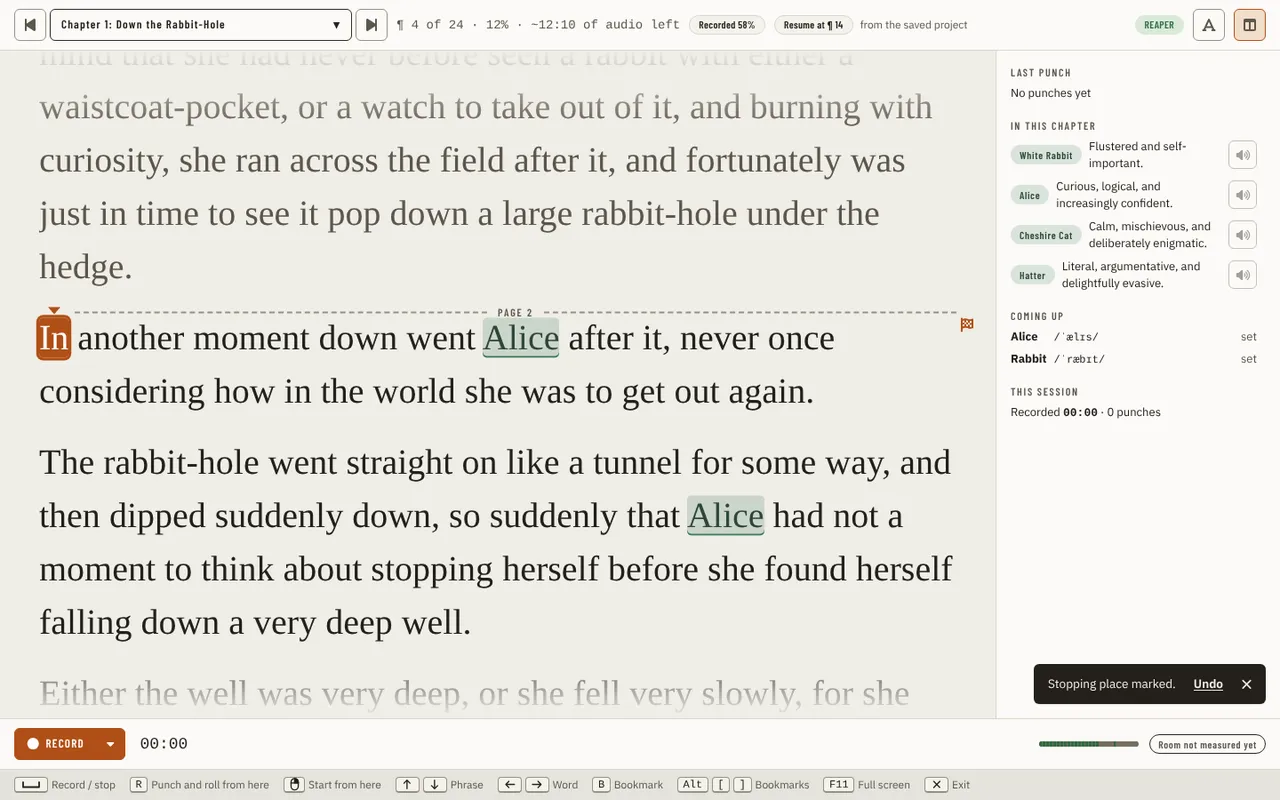
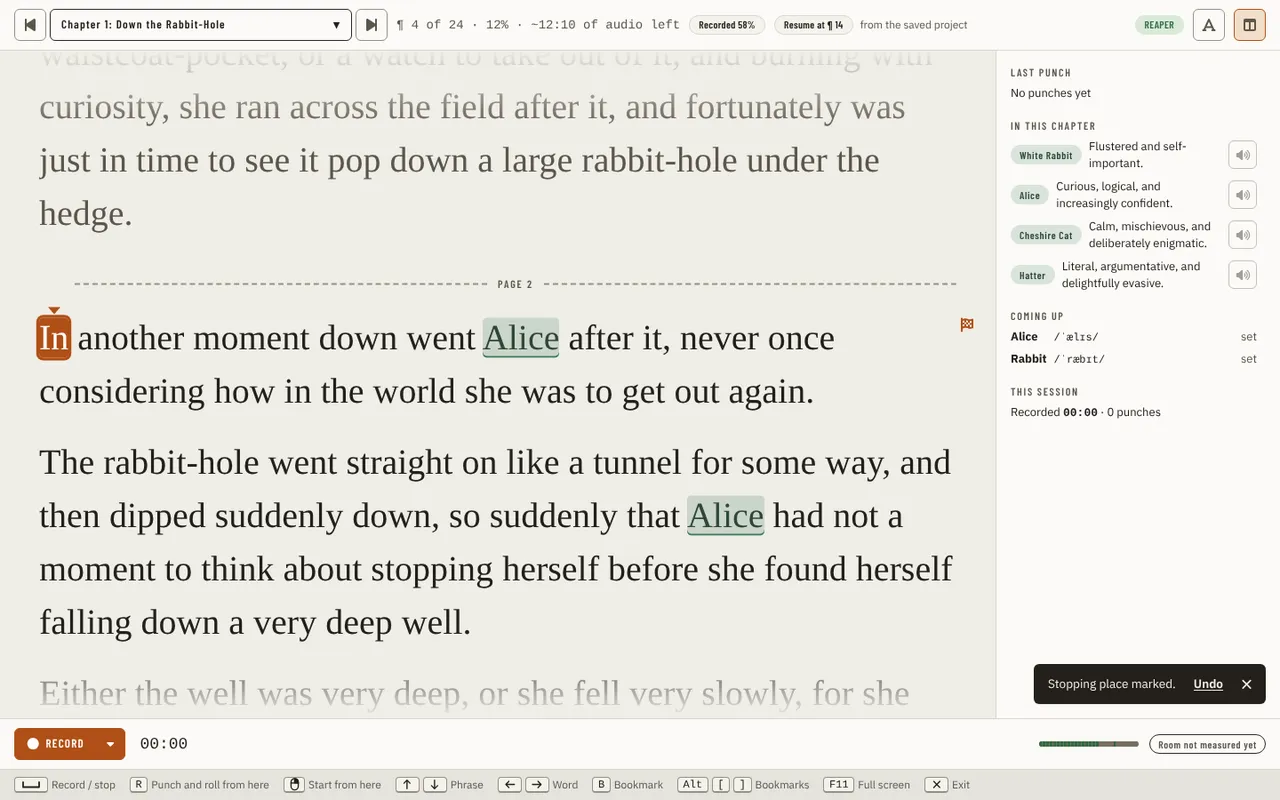
fix(ui): give Booth page breaks more room (#3256)

diff --git a/src/studio/ui/src/components/booth/pages/PageBreaks.tsx b/src/studio/ui/src/components/booth/pages/PageBreaks.tsx
@@ -5,7 +5,7 @@ import type { PageBreak } from './pageBreakLayout';
 
 /**
  * The chapter's page breaks over the Booth's text: a `BoundaryMarker` across the column above the line that holds each break's first word.
- * It is drawn over the text and takes no room, so the text never moves for it; each line carries its "Page N" in the chapter-end marker's format (`BoundaryMarker`) and the right-click spot for "Read to here". Mount it inside the text column, which is `relative` and moves with the text; it measures the break words and
+ * It is drawn over the text and takes no room; the room above it is the page's first paragraph's own margin (`BoothText` `pageStarts`); each line carries its "Page N" in the chapter-end marker's format (`BoundaryMarker`) and the right-click spot for "Read to here". Mount it inside the text column, which is `relative` and moves with the text; it measures the break words and
  * measures again when the column is resized (text size, window).
  */
 export function PageBreaks({ breaks }: { breaks: readonly PageBreak[] }) {
@@ -42,7 +42,7 @@ export function PageBreaks({ breaks }: { breaks: readonly PageBreak[] }) {
         const top = tops[pageBreak.page];
         if (top === undefined) return null;
         return (
-          // The marker sits in the leading above the break word's line, so it crosses no letters; it takes no room. Its left padding keeps the rule clear of a bookmark's triangle above the break word.
+          // The marker sits 0.8 of the text size above the break word's line (`--tsize`, set on the column), in the page's first paragraph's margin, so it crosses no letters and clears the reading cue; it takes no room. Its left padding keeps the rule clear of a bookmark's triangle above the break word.
           <BoundaryMarker
             key={pageBreak.page}
             variant="page"
@@ -51,7 +51,7 @@ export function PageBreaks({ breaks }: { breaks: readonly PageBreak[] }) {
             data-paragraph-id={pageBreak.paragraphId}
             data-offset={pageBreak.offset}
             className="pointer-events-auto absolute inset-x-0 -translate-y-full pl-10 leading-none"
-            style={{ top }}
+            style={{ top, marginTop: 'calc(var(--tsize) * -0.8)' }}
           >
             Page {pageBreak.page.toLocaleString()}
           </BoundaryMarker>

diff --git a/src/studio/ui/src/components/booth/reading/BoothText.tsx b/src/studio/ui/src/components/booth/reading/BoothText.tsx
@@ -60,6 +60,8 @@ type Props = {
   /** The column's CSS max-width (`useTextChoices`' column, the Reader text column width). Left out: Medium, the Reader text default. */
   width?: string;
   viewRef?: Ref<BrowseView>;
+  /** Ids of the paragraphs that open a page after the first: each gets 2em above it and its marker sits 0.8 of the text size clear of the first line, so its page-break marker (`PageBreaks`) has room. */
+  pageStarts?: ReadonlySet<string>;
   /** Drawn inside the text column, which is `relative` and moves with the text: the bookmark ribbons (`BookmarkRibbons`). */
   margin?: ReactNode;
 };
@@ -214,6 +216,7 @@ export function BoothText({
   font,
   width = readerColumn(DEFAULT_TEXT_PREFS.width),
   viewRef,
+  pageStarts,
   margin,
 }: Props) {
   const paragraphs = useMemo(() => readingParagraphs(given), [given]);
@@ -304,7 +307,7 @@ export function BoothText({
               style={{ '--est': `${estimatedEm(paragraph.text)}em` } as CSSProperties}
               data-pickup={pickup ? (pickup.done ? 'done' : 'open') : undefined}
               data-heading={paragraph.heading}
-              className={`${paragraph.heading && !paragraphs[paragraphIndex + 1]?.heading ? 'mb-[1em]' : 'mb-[0.5em]'} text-start ${HEADING_LOOK[paragraph.heading ?? 'none']} [contain-intrinsic-size:auto_var(--est)] ${paragraphIndex === readingParagraph || paragraphIndex === ghostParagraph ? '[content-visibility:visible]' : '[content-visibility:auto]'} ${pickup ? `border-l-4 pl-3 ${pickup.done ? 'border-[var(--ok)]' : 'border-[var(--accent)]'}` : ''}`}
+              className={`${pageStarts?.has(paragraph.id) ? 'mt-[2em]' : ''} ${paragraph.heading && !paragraphs[paragraphIndex + 1]?.heading ? 'mb-[1em]' : 'mb-[0.5em]'} text-start ${HEADING_LOOK[paragraph.heading ?? 'none']} [contain-intrinsic-size:auto_var(--est)] ${paragraphIndex === readingParagraph || paragraphIndex === ghostParagraph ? '[content-visibility:visible]' : '[content-visibility:auto]'} ${pickup ? `border-l-4 pl-3 ${pickup.done ? 'border-[var(--ok)]' : 'border-[var(--accent)]'}` : ''}`}
             >
               {unitsOf[paragraphIndex].map((unit) => {
                 index++;

diff --git a/src/studio/ui/src/components/booth/page/BoothNextPage.tsx b/src/studio/ui/src/components/booth/page/BoothNextPage.tsx
@@ -401,6 +401,7 @@ function BoothSession({
   // A page break after the paragraph that brings a page to Booth.words_per_page words; the credits chapters have no paragraphs and so none.
   const wordsPerPage = useWordsPerPage();
   const breaks = useMemo(() => (chapter ? pageBreaks(paragraphs, units, wordsPerPage) : []), [chapter, paragraphs, units, wordsPerPage]);
+  const pageStarts = useMemo(() => new Set(breaks.map((pageBreak) => pageBreak.paragraphId)), [breaks]);
 
   // Ctrl+F opens the jump menu; its search finds the text in this chapter and brings the match into view (during a take, without moving the reading).
   const find = useBoothFind({ chapterId: recordId, paragraphs, recording: control.recording, seek, view: page.view });
@@ -767,6 +768,7 @@ function BoothSession({
                   font={page.text.fontFamily}
                   width={page.text.column}
                   viewRef={page.view}
+                  pageStarts={pageStarts}
                   margin={
                     chapter ? (
                       <>

diff --git a/src/studio/ui/src/components/booth/reading/BoothText.test.tsx b/src/studio/ui/src/components/booth/reading/BoothText.test.tsx
@@ -448,3 +448,13 @@ describe('a cold read draws a ghost and the view follows it', () => {
     expect(text.style.transition).toBe('');
   });
 });
+
+describe('room for a page break', () => {
+  it('puts 2em above the paragraph that opens a page, and above no other', () => {
+    setup({ pageStarts: new Set(['p2']) });
+    const gap = (id: string) => document.querySelector<HTMLElement>(`[data-paragraph="${id}"]`)!.className.includes('mt-[2em]');
+    expect(gap('p2')).toBe(true);
+    expect(gap('p1')).toBe(false);
+    expect(gap('p3')).toBe(false);
+  });
+});

diff --git a/src/studio/ui/src/components/booth/pages/PageBreaks.test.tsx b/src/studio/ui/src/components/booth/pages/PageBreaks.test.tsx
@@ -19,6 +19,8 @@ describe('PageBreaks', () => {
     expect(marker.getAttribute('data-boundary')).toBe('page');
     expect(marker.textContent).toBe('Page 2');
     expect(marker.dataset).toMatchObject({ pageBreak: '2', paragraphId: 'p1', offset: '4' });
+    // The lift scales with the Booth text size, so the room below the rule grows with the room above the page.
+    expect(marker.style.marginTop).toBe('calc(var(--tsize) * -0.8)');
     expect(container.querySelector('[data-page-breaks]')?.className).toContain('h-0');
   });
 

diff --git a/docs/guides/using-the-app/booth.md b/docs/guides/using-the-app/booth.md
@@ -491,7 +491,7 @@ into another chapter when needed; during a take they move only within the chapte
 
 ## Pages and your stopping place
 
-The Booth marks where a page breaks: a dashed line across the text above the page's first line with **Page 2**, **Page 3** and so on in its middle, drawn the same way as the "End of chapter" line on the [Script](script.md) page. A page is at least 250 words, counted from the start of the chapter (the title and subtitle included), and never breaks inside a paragraph: when the count reaches 250 partway through a paragraph, the page runs on to that paragraph's last word and the next page starts with the next paragraph, counting again from there. A paragraph longer than a page makes one long page. The last page of a chapter has no break after it, so a chapter of one page, or of a single paragraph, has none. Change the figure for this project with **Words per page** in [Settings › Project](settings.md#project). The marks take no room and do not move as you read, record or change the text size.
+The Booth marks where a page breaks: a dashed line across the text above the page's first line with **Page 2**, **Page 3** and so on in its middle, drawn the same way as the "End of chapter" line on the [Script](script.md) page. A page is at least 250 words, counted from the start of the chapter (the title and subtitle included), and never breaks inside a paragraph: when the count reaches 250 partway through a paragraph, the page runs on to that paragraph's last word and the next page starts with the next paragraph, counting again from there. A paragraph longer than a page makes one long page. The last page of a chapter has no break after it, so a chapter of one page, or of a single paragraph, has none. Change the figure for this project with **Words per page** in [Settings › Project](settings.md#project). Each page's first paragraph has extra space above it for the line, and the line itself takes no room, so nothing moves as you read, record or change the text size.
 
 To mark where you mean to stop, right-click a word, or a page's label, and choose **Read to here**. The place gets a chequered-flag ribbon, also shown in the Script and in the jump menu (**Read to here: …**), with **Undo** on the message. A chapter has one stopping place: setting another moves it, and **Undo** puts it back where it was. It only marks the place: nothing stops, pauses or ends a take when you reach it. Right-click the flag for **Edit stopping place** and **Remove stopping place**.
 
